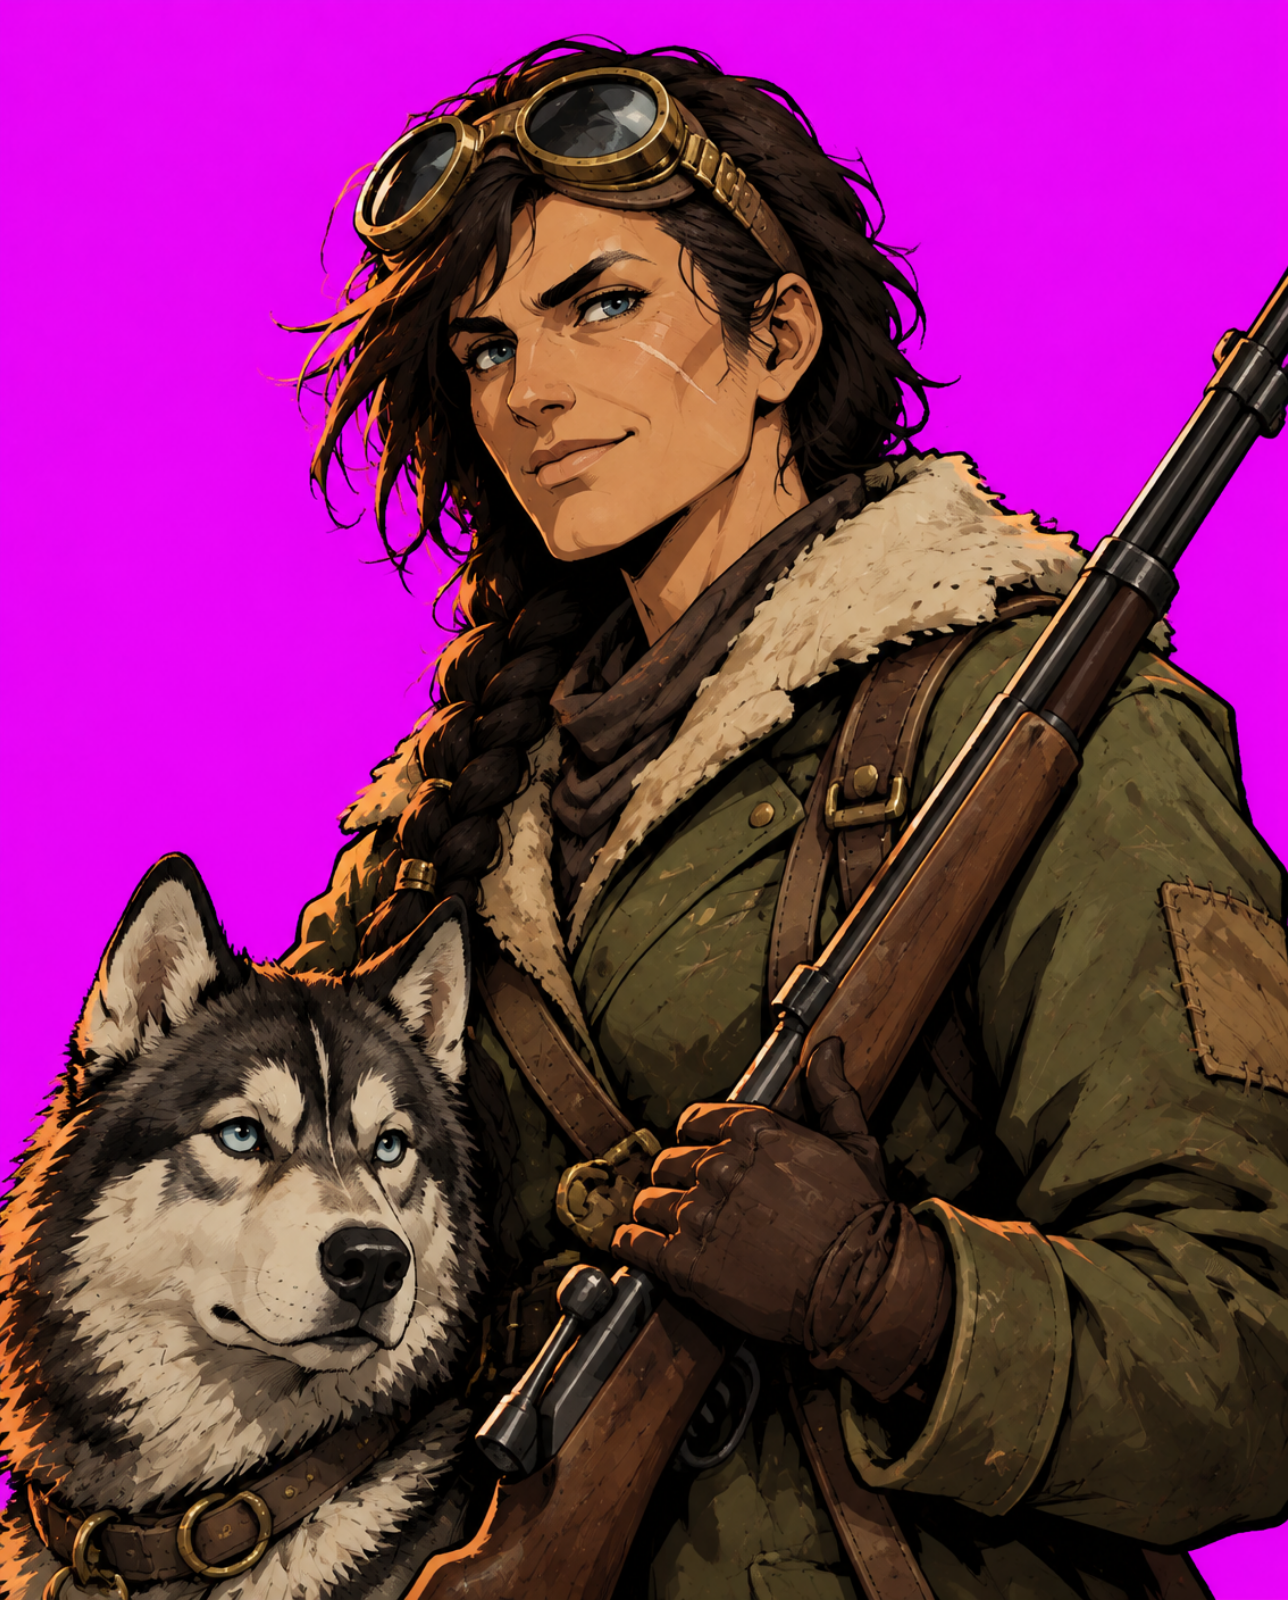
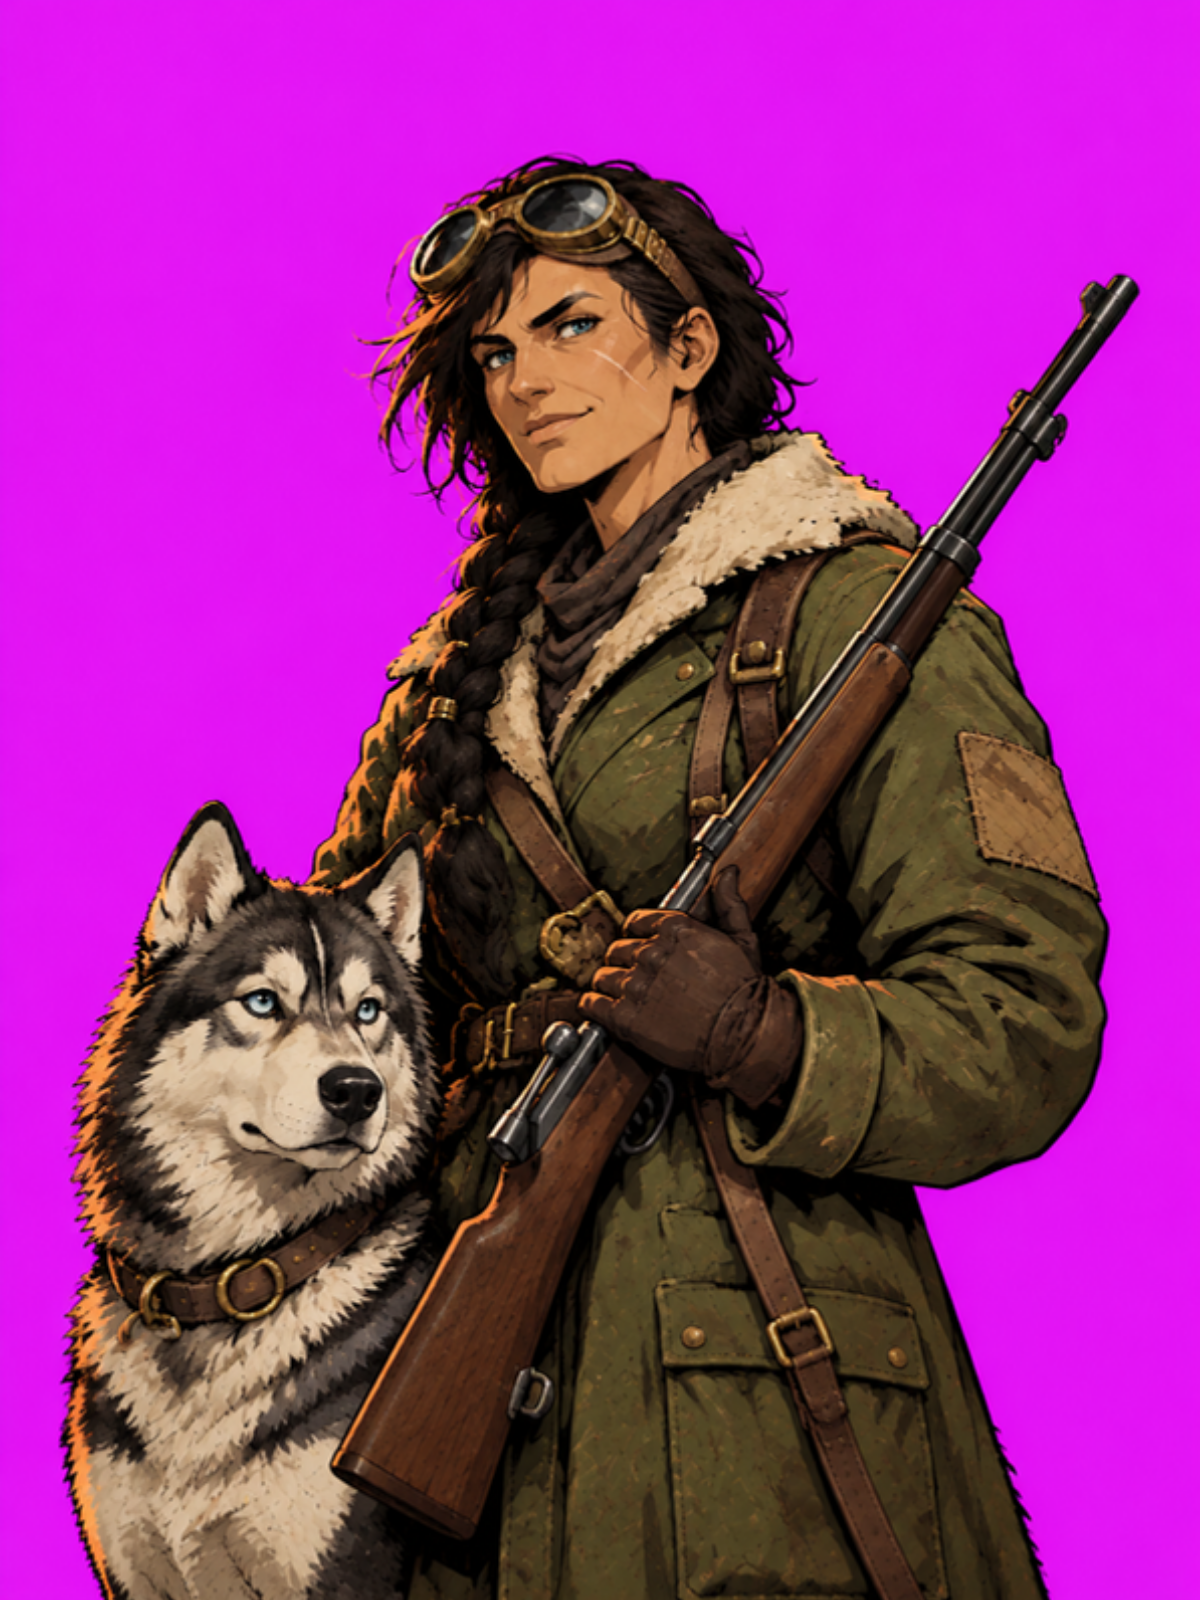
art(menu): extend the hero so the arm and rifle are whole; the cut tool never outlines a clipped edge (ART-029)
The ART-028 hero was generated with the scout's right arm and the rifle
muzzle past the frame, which the menu showed as a straight cut. hero.png
is now a wider take of the same scout (the approved image as the only
reference) with margin on every side, re-cut into main_menu_colonist.png.
portrait_cut.py inks no contour along a side where a painting is cut (two
storyteller busts lose a dark line at their cut sides) and refuses a menu
source whose figure touches the right or top edge; a test keeps the
splash's last columns transparent.

diff --git a/assets/source/tools/portrait_cut.py b/assets/source/tools/portrait_cut.py
@@ -74,10 +74,49 @@ def fit(img, size):
     return canvas
 
 
-def contour(img, width):
-    """A dark outer contour `width` px wide around the opaque shape."""
+SIDES = ("left", "top", "right", "bottom")
+
+
+def clipped_sides(img):
+    """The sides of img that opaque content runs off: the painting was cut
+    there, so no contour belongs on that edge (it would draw a straight
+    dark line along the cut)."""
+    a = np.asarray(img.getchannel("A")) > 8
+    if not a.any():
+        return set()
+    out = set()
+    if a[:, 0].any():
+        out.add("left")
+    if a[0, :].any():
+        out.add("top")
+    if a[:, -1].any():
+        out.add("right")
+    if a[-1, :].any():
+        out.add("bottom")
+    return out
+
+
+def contour(img, width, clipped=()):
+    """A dark outer contour `width` px wide around the opaque shape, except
+    past the shape's edge on a side listed in `clipped` (see clipped_sides):
+    a bust is cut flush at the bottom by design, and a source cut on a side
+    keeps a clean edge there instead of an inked band."""
     a = img.getchannel("A")
     grown = a.filter(ImageFilter.MaxFilter(2 * width + 1))
+    if clipped:
+        box = a.point(lambda v: 255 if v > 8 else 0).getbbox()
+        if box is not None:
+            g, raw = np.asarray(grown).copy(), np.asarray(a)
+            x0, y0, x1, y1 = box
+            if "left" in clipped:
+                g[:, :x0] = raw[:, :x0]
+            if "top" in clipped:
+                g[:y0, :] = raw[:y0, :]
+            if "right" in clipped:
+                g[:, x1:] = raw[:, x1:]
+            if "bottom" in clipped:
+                g[y1:, :] = raw[y1:, :]
+            grown = Image.fromarray(g, "L")
     ring = Image.new("RGBA", img.size, tuple(int(v) for v in INK) + (0,))
     ring.putalpha(grown)
     ring.alpha_composite(img)
@@ -123,7 +162,7 @@ def write_meta(name, lines):
 def cut(key, character):
     src = Image.open(os.path.join(SRC, key + ".png"))
     keyed = key_out(src)
-    full = contour(_fit_exact(keyed, CANVAS, CONTOUR), CONTOUR)
+    full = contour(_fit_exact(keyed, CANVAS, CONTOUR), CONTOUR, clipped_sides(keyed) | {"bottom"})
     thumb = thumbnail(full)
     full.save(os.path.join(OUT, key + ".png"), optimize=True)
     thumb.save(os.path.join(OUT, key + "_thumb.png"), optimize=True)
@@ -160,9 +199,20 @@ def cut(key, character):
 def cut_menu():
     """The main-menu hero (ART-028): keyed and inked like the busts, fitted
     bottom-flush into MENU_CANVAS with a contour; no thumbnail or metadata
-    (splash.go loads the PNG directly)."""
+    (splash.go loads the PNG directly).
+
+    The splash sits bottom-left of the window, so the figure may run off the
+    left and bottom edges but never the right or top (ART-029): a figure cut
+    there shows as a straight edge against the backdrop. A source like that
+    is refused; paint or extend it with magenta margin instead.
+    """
     keyed = key_out(Image.open(MENU_SRC))
-    contour(_fit_exact(keyed, MENU_CANVAS, CONTOUR), CONTOUR).save(MENU_OUT, optimize=True)
+    sides = clipped_sides(keyed)
+    if bad := sides & {"right", "top"}:
+        raise SystemExit("%s: the figure runs off the %s edge; the menu shows that edge, so "
+                         "regenerate the source with magenta margin there (ART-029)"
+                         % (os.path.relpath(MENU_SRC, ROOT), " and ".join(sorted(bad))))
+    contour(_fit_exact(keyed, MENU_CANVAS, CONTOUR), CONTOUR, sides | {"bottom"}).save(MENU_OUT, optimize=True)
 
 
 def main():

diff --git a/internal/adapters/inbound/ebiten/splash_test.go b/internal/adapters/inbound/ebiten/splash_test.go
@@ -87,3 +87,32 @@ func TestMenuSplashPNGDecodes(t *testing.T) {
 		t.Fatal("splash PNG last row should meet the bust, not empty transparency")
 	}
 }
+
+// TestMenuSplashKeepsItsRightEdgeFree (ART-029): the splash is anchored
+// bottom-left, so a figure may run off the left and bottom edges but not
+// the right: a cut there shows as a straight edge against the backdrop.
+// The last columns of the PNG must be fully transparent.
+func TestMenuSplashKeepsItsRightEdgeFree(t *testing.T) {
+	t.Parallel()
+	path, err := LocateMenuSplash()
+	if err != nil {
+		t.Fatal(err)
+	}
+	f, err := os.Open(path)
+	if err != nil {
+		t.Fatal(err)
+	}
+	defer f.Close()
+	img, err := png.Decode(f)
+	if err != nil {
+		t.Fatal(err)
+	}
+	b := img.Bounds()
+	for x := b.Max.X - 2; x < b.Max.X; x++ {
+		for y := b.Min.Y; y < b.Max.Y; y++ {
+			if _, _, _, a := img.At(x, y).RGBA(); a > 8<<8 {
+				t.Fatalf("splash column %d (of %d) is opaque at y=%d: the figure is cut on the right; extend the source with margin", x, b.Max.X, y)
+			}
+		}
+	}
+}

diff --git a/.cursor/handoffs/ART-029-menu-hero-extended.md b/.cursor/handoffs/ART-029-menu-hero-extended.md
@@ -1,0 +1,22 @@
+# ART-029: the main-menu hero's right side was cut; extended, and the cut tool hardened
+
+## Why
+The ART-028 hero (`assets/source/raster/ui/menu/hero.png`, 1288×1600) was generated with the scout's right arm and the rifle's muzzle already past the frame's right edge, so the menu showed a straight vertical cut through the sleeve. Nothing downstream could restore it: `cut_menu` keys and fits the whole source, and `drawMenuSplash` draws it unclipped, bottom-left, so only the right and top edges of the figure are ever visible. The cut tool made it worse by inking its 4 px contour along the cut, a dark band at x 900–903.
+
+## What changed
+- **Art:** `hero.png` is now the extended take (1200×1600, 3:4): Canva's image generator with the ART-028 hero as the only reference (our own art), "a wider shot of the same scout … with magenta margin around them"; the user picked it from two takes (a third was refused by the credit quota). The prompt is in `menu/briefs.md`. `main_menu_colonist.png` (904×1104) is re-cut from it: content spans x 36–867, the last columns are transparent, the bottom row is flush.
+- **`portrait_cut.py`:**
+  - `clipped_sides(img)`: the sides a keyed source's content runs off.
+  - `contour(img, width, clipped)`: no contour past the shape's edge on a clipped side, so a painting cut on a side keeps a clean edge instead of an inked band. This also re-cut two storyteller busts (`gambler`, `steady`), which were cut on a side: they lost the 4 px dark line there (reviewed: an improvement).
+  - `cut_menu` refuses a source whose figure touches the right or top edge (`SystemExit` with the reason), so `make portraits` catches a bad source before the test does.
+- **Test:** `TestMenuSplashKeepsItsRightEdgeFree` (splash_test.go): the splash PNG's last two columns are fully transparent.
+- Docs: `assets/AGENTS.md` hero paragraph, `menu/briefs.md`, ART §17.1's hero row.
+
+## Verify
+- `PATH=/usr/local/bin:$PATH make portraits` reproduces the outputs; against the old source it exits 1 with the right-edge message.
+- `go test -race -run 'Splash|Menu' ./internal/adapters/inbound/ebiten/`.
+- `bin/game -capture <scratch>/menu.png -capture-ui menu` (and `-capture-ui-scale 2`): arm and rifle whole, no band, the figure clears the action rail at 1280×720.
+
+## Left for the user
+- Delete the Canva scratch design "Blank magenta portrait scratch canvas" (`DAHZHun9Dn8`, now 7 pages); there is no delete tool here.
+- The Canva image-generation quota is used up; the storyteller-bust restyle noted in ART-028 waits for it.

diff --git a/.cursor/ART_DIRECTION_AND_ASSET_PIPELINE.md b/.cursor/ART_DIRECTION_AND_ASSET_PIPELINE.md
@@ -717,7 +717,7 @@ system.
 - **Font:** Noto Sans Regular/SemiBold (OFL 1.1, embedded from `ebiten/fontdata/`); type scale Small 11, Body 13, Label 13 SemiBold, Large 16, Title 22, Huge 32; UI scale 90–130 %.
 - **Setup chrome:** centred dialog frame (≤1240×760, title 44 px, footer 56 px; Back bottom-left, forward bottom-right) over the dimmed diorama + baked starfield + a distant planet disc; widget tokens in `assets/palettes/ui.yaml` (text, fields, sliders, scrollbars, tooltips, modal dim).
 - **Storyteller busts** (painted raster sources in `source/raster/ui/portraits/` with their prompts in `briefs.md`, cut by `make portraits` / `tools/portrait_cut.py` into 512×640 busts + 120×150 head-and-shoulders thumbnails, transparent, dark contour; the style matches the main-menu colonist: heroic comic bust, bold black cel outlines, flat cel shading, slight painterly texture; ART-023): Orla Vane (late 50s, close-cropped silver hair, dispatcher's headset round the neck, quilted navy jacket with a reflective stripe, calm half-smile); Bram Holloway (60s, broad, ruddy, short white beard, knitted cardigan over an apron, steaming mug); Kestrel Quay (30s, angular, asymmetric dark hair with one shaved side, long coat with brass buttons, a card between two fingers, one raised eyebrow). Never reference RimWorld storyteller art; silhouettes, palettes and props must differ clearly.
-- **Main-menu hero** (ART-028): an original scout with a sled dog in the same style, cut by `make portraits` (`cut_menu`) from `source/raster/ui/menu/hero.png` (prompt in `menu/briefs.md`) into `source/raster/ui/main_menu_colonist.png` (904×1104, bottom-flush RGBA). No existing illustration may be used as a reference or input.
+- **Main-menu hero** (ART-028): an original scout with a sled dog in the same style, cut by `make portraits` (`cut_menu`) from `source/raster/ui/menu/hero.png` (prompt in `menu/briefs.md`) into `source/raster/ui/main_menu_colonist.png` (904×1104, bottom-flush RGBA). No existing illustration may be used as a reference or input. ART-029: the figure keeps margin on the source's right and top (the splash is anchored bottom-left, so those edges show); `cut_menu` refuses a source cut there, inks no contour along a cut side, and `TestMenuSplashKeepsItsRightEdgeFree` guards the output.
 - **Icons:** `ui_icon/scenario_<key>` + `scenario_custom`, `passion_minor|major`, `skill_<key>`, `trait`, `factions`, `minimap`, `components`, `industrial_medicine`, `tool_cabinet`, `hospital_bed`.
 - Details: `NG1_NEW_GAME_PLAN.md` §1, §2, §7.
 

diff --git a/assets/source/raster/ui/menu/briefs.md b/assets/source/raster/ui/menu/briefs.md
@@ -27,3 +27,22 @@ the magenta field and writes `../main_menu_colonist.png` (904×1104), which
 > palette with olive, rust and brass accents. Background: solid flat pure
 > magenta (#FF00FF), no gradient, no shadow on the background. No text, no
 > logo, no frame. Original design.
+
+## Extension (ART-029, 2026-10-27)
+
+The first take was framed with the scout's right arm and the rifle's muzzle
+running off the right edge, which the menu shows as a straight cut (the
+splash sits bottom-left, so only its right and top edges are visible).
+`hero.png` was extended with Canva's image generator using that take as
+the only reference (our own art), at 3:4, exported at 1200×1600. The user
+picked it from two takes. `cut_menu` now refuses a source whose figure
+touches the right or top edge, and inks no contour along a side where the
+painting is cut.
+
+> The same picture as the reference, but the camera has stepped back about
+> twenty percent: a wider shot of the same scout and her sled dog in the
+> same pose, so her right arm and sleeve and the whole hunting rifle across
+> her chest sit well inside the frame with magenta margin around them.
+> Identical character, face, expression, goggles, braid, coat, colours and
+> cel-shaded comic ink style; the same flat bright magenta background with
+> nothing else added; no text.

diff --git a/assets/AGENTS.md b/assets/AGENTS.md
@@ -90,7 +90,7 @@ assets/
 ```
 
 `source/raster/ui/main_menu_colonist.png` is the main-menu hero (ART-028):
-a scout with a sled dog, a cel-shaded RGBA cutout. It is cut by `make portraits`
+a scout with a sled dog, a cel-shaded RGBA cutout. The figure keeps magenta margin on the right and top of its source (ART-029: the splash is anchored bottom-left, so those edges show; `cut_menu` refuses a source cut there and `TestMenuSplashKeepsItsRightEdgeFree` guards the output). It is cut by `make portraits`
 (`tools/portrait_cut.py` `cut_menu`) from `source/raster/ui/menu/hero.png`;
 `menu/briefs.md` holds its original prompt. The earlier raven colonist was
 replaced because its brief reconstructed an existing illustration.
